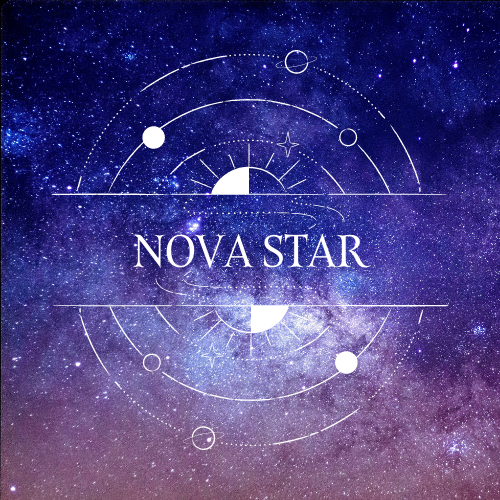
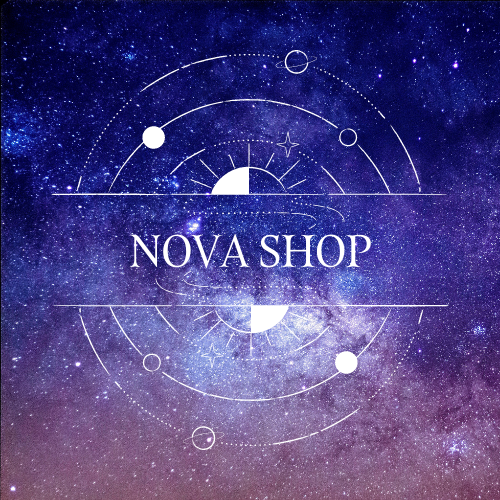
Page articles HTML + CSS

Changed region(s): [[0.27, 0.45, 0.75, 0.54]]

diff --git a/public/css/articles.css b/public/css/articles.css
@@ -1,23 +1,103 @@
-/* ---------- HEADER ---------- */
-
-    /* RESET & GLOBAL CSS */
-
-*,
-::before,
-::after {
-  margin: 0;
-  padding: 0;
-  box-sizing: border-box;
-  text-decoration: none;
-  list-style: none;
-}
-@font-face {
-  font-family: "Belda Norm Regular", sans-serif;
-  src: url(../public/font/belda-norm-regular.otf);
+.card {
+  display: flex;
+  justify-content: center;
+  flex-direction: column;
+  align-items: center;  
+  margin: 30px;
+  background-color: #fff;
+  border-radius: 4px;
+  overflow: hidden;
+  width: 300px;
+  font-family: 'Montserrat', sans-serif;
+  border: 2px solid white;
+  transition: all 0.4s;
 }
 
-@font-face {
-  font-family: "SyneMono-Regular";
-  src: url(../public/font/SyneMono-Regular.ttf);
+.card:hover {
+  box-shadow: rgba(0, 0, 0, 0.19) 0px 10px 20px, rgba(0, 0, 0, 0.23) 0px 6px 6px; 
 }
+
+.card img {
+  width: 100%;
+  height: 200px;
+  min-width: 200px;
+  object-fit: cover;
+}
+
+
+
+.card p {
+  margin: 18px 15px;
+  font-size: 15px;
+  text-align: center;
+}
+
+.card span p{
+  font-size: 40px;
+  color:#192b4bcc;
+  text-align: center;
+  margin-bottom: 40px;
+}
+
+.card a {
+  width: 80%;
+  font-size: 20px;
+  margin-bottom: 20px;
+  line-height: 50px;
+  text-align: center;
+  border: 1px solid #192b4bcc;
+  border-radius: 25px;
+  background-color: #192b4bcc;
+  color: white; 
+  transition: all 0.2s;
+}
+
+.card a:hover {
+  background-color: white;
+  color: #192b4bcc;
+}
+
+h1 {
+  font-family: 'Montserrat', sans-serif;
+  font-size: 30px;
+  margin-top: 70px;
+  color: #fff;
+}
+
+.container1 {
+  display: flex;
+  flex-wrap: wrap;
+  justify-content: center ;
+}
+
+.container2 {
+  display: flex;
+  justify-content: center;
+  align-items: center;
+  flex-wrap: wrap;
+}
+
+.container2 div {
+  display: flex;
+  justify-content: center;
+  flex-direction: column;
+  align-items: center;  
+  margin: 30px;
+  background-color: #fff;
+  border-radius: 4px;
+  overflow: hidden;
+  width: 660px;
+  height: 300px;
+  font-family: 'Montserrat', sans-serif;
+  border: 2px solid white;
+  transition: all 0.4s;
+}
+
+.container2 img {
+  background-image: url(../img/STAR.jpg);
+  width: 100%;
+  height: 400px;
+  object-fit:cover;
+}
+
 

diff --git a/public/css/article.css b/public/css/article.css
@@ -1,22 +1,13 @@
-/* RESET & GLOBAL CSS
-
-*,
-::before,
-::after {
-  margin: 0;
-  padding: 0;
-  box-sizing: border-box;
-  text-decoration: none;
-  list-style: none;
-}
-@font-face {
-  font-family: "Belda Norm Regular", sans-serif;
-  src: url(./font/belda-norm-regular.otf);
+h1 {
+  text-align: start;
 }
 
+.step {
+  display: flex;
+  }
 
-body {
-  overflow-x: hidden;
-  font-size: 30px;
-  font-family: "Belda Norm Regular", sans-serif;
-} */
+.step p {
+    width: 20%;
+    height: 60px;
+    background-color: white;
+  }

diff --git a/public/css/header.css b/public/css/header.css
@@ -40,7 +40,7 @@ body {
   font-size: 30px;
   font-family: "SyneMono-Regular";
   /* background-image: url(https://images8.alphacoders.com/601/thumb-1920-601973.jpg); */
-  background-color: #939393;
+  background-color: #89A0C8;
   background-size: cover;
   background-repeat: no-repeat;  
 }

diff --git a/articles.php b/articles.php
@@ -5,7 +5,71 @@ require('process/header.php');
 
 ?>
 <main>
-   
+
+<h1>Jetez un coup d'œil à nos offres</h1>
+
+<section class="container1">
+
+<div class="card">
+
+<img src="./public/img/NOVA SHOP.png">
+
+<p>By choosing our Traditional Star offer, you can adopt a real star in space! Even better, the star you name is one which can be seen anywhere on Earth, at any time of the year. Your star will always be with you!</p>
+<span><p>40€</p></span>
+
+<a href="#">Acheter maintenant</a>
+
+</div>
+
+<div class="card">
+
+<img src="./public/img/NOVA SHOP.png">
+
+<p>By choosing our Traditional Star offer, you can adopt a real star in space! Even better, the star you name is one which can be seen anywhere on Earth, at any time of the year. Your star will always be with you!</p>
+<span><p>40€</p></span>
+
+<a href="#">Acheter maintenant</a>
+
+</div>
+
+<div class="card">
+
+<img src="./public/img/NOVA SHOP.png">
+
+<p>By choosing our Traditional Star offer, you can adopt a real star in space! Even better, the star you name is one which can be seen anywhere on Earth, at any time of the year. Your star will always be with you!</p>
+<span><p>40€</p></span>
+
+<a href="#">Acheter maintenant</a>
+
+</div>
+
+<div class="card">
+
+<img src="./public/img/NOVA SHOP.png">
+
+<p>By choosing our Traditional Star offer, you can adopt a real star in space! Even better, the star you name is one which can be seen anywhere on Earth, at any time of the year. Your star will always be with you!</p>
+<span><p>40€</p></span>
+
+<a href="#">Acheter maintenant</a>
+
+</div>
+
+</section>
+
+<section class="container2">
+
+<div>
+    <p>Rejoignez le panthéon des étoiles</p>
+    <a href="#">Découvrir notre registre</a>
+</div>
+
+<div>
+    <p>Visualiser votre étoile</p>
+    <a href="#">Voir la carte intéractive</a>
+</div>
+    
+
+</section>
 
 </main>
 <?php

diff --git a/article.php b/article.php
@@ -5,3 +5,31 @@
     require ('process/header.php'); 
   
 ?>
+
+<main>
+
+    <h1>Achetez un certificat</h1>
+
+    <div class="step">
+        <p>Etape 1</p>
+        <p>Etape 2</p>
+        <p>Etape 3</p>
+    </div>
+
+    </div>
+
+    <div class="container">
+
+    <p>Type de certificat</p>
+
+<div class="certif_container">
+    <div class="certif"><div>
+    <div class="certif"><div>
+    <div class="certif"><div>
+    <div class="certif"><div>
+</div>
+
+
+
+
+</div>
